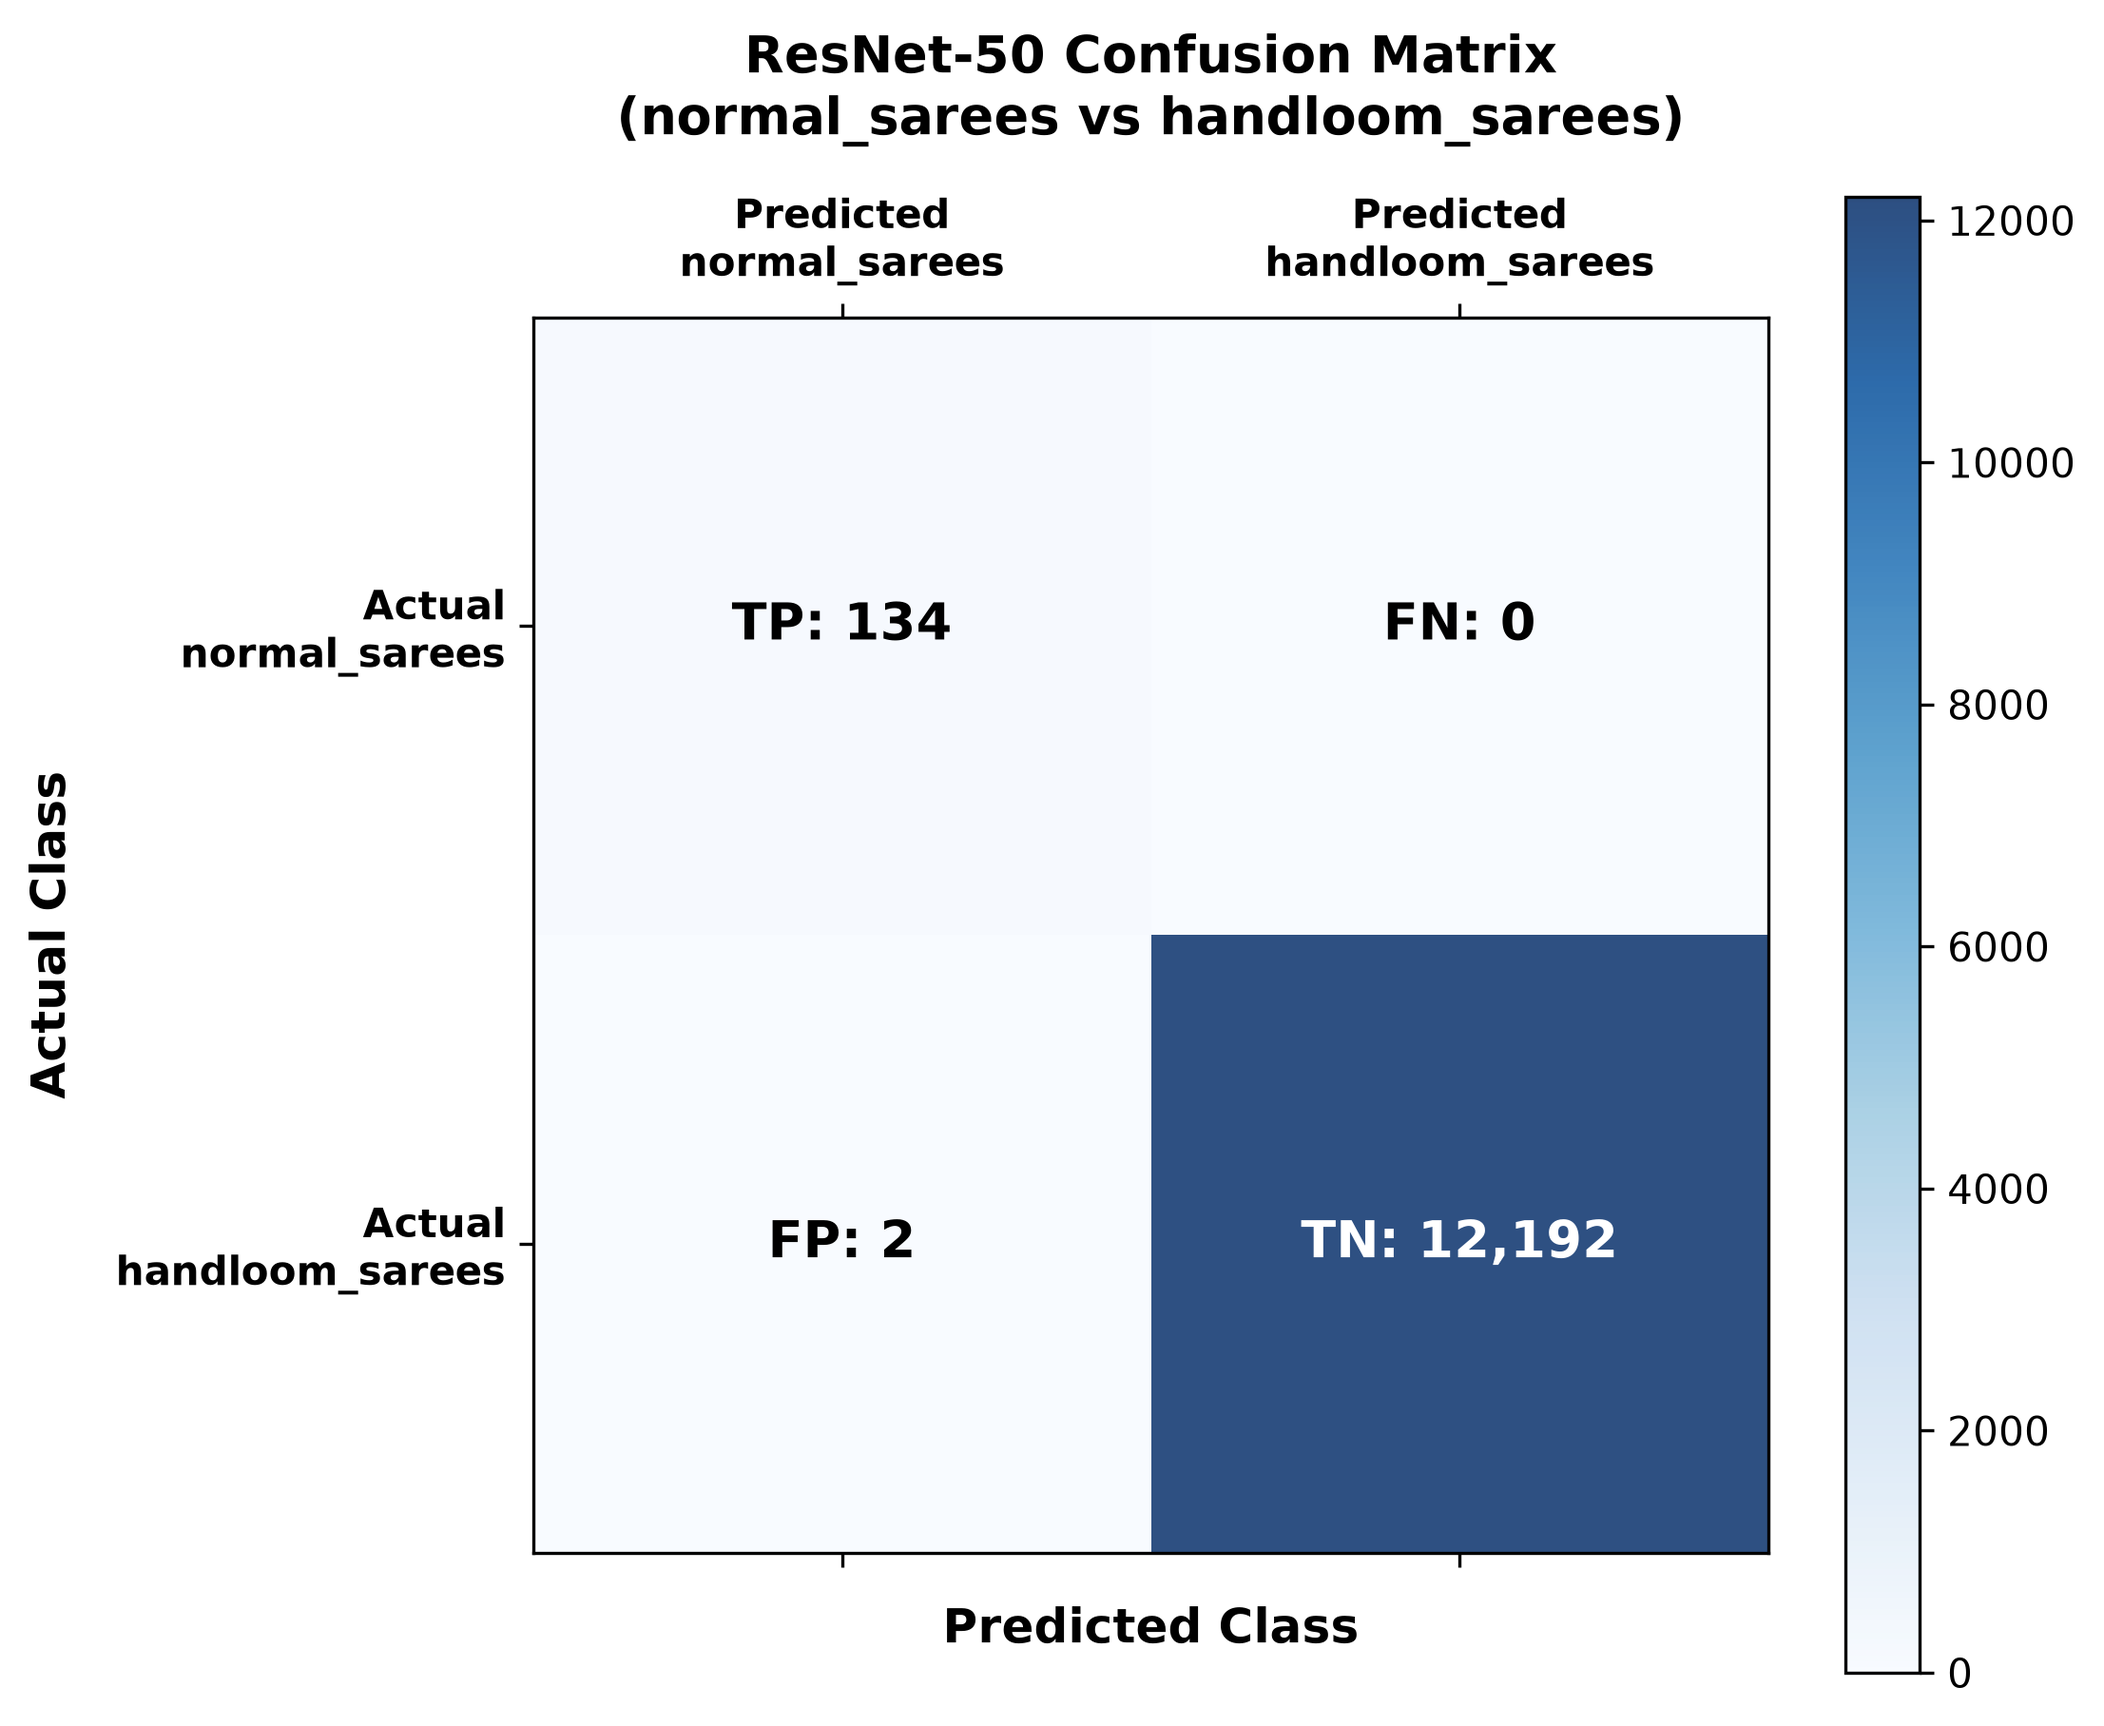
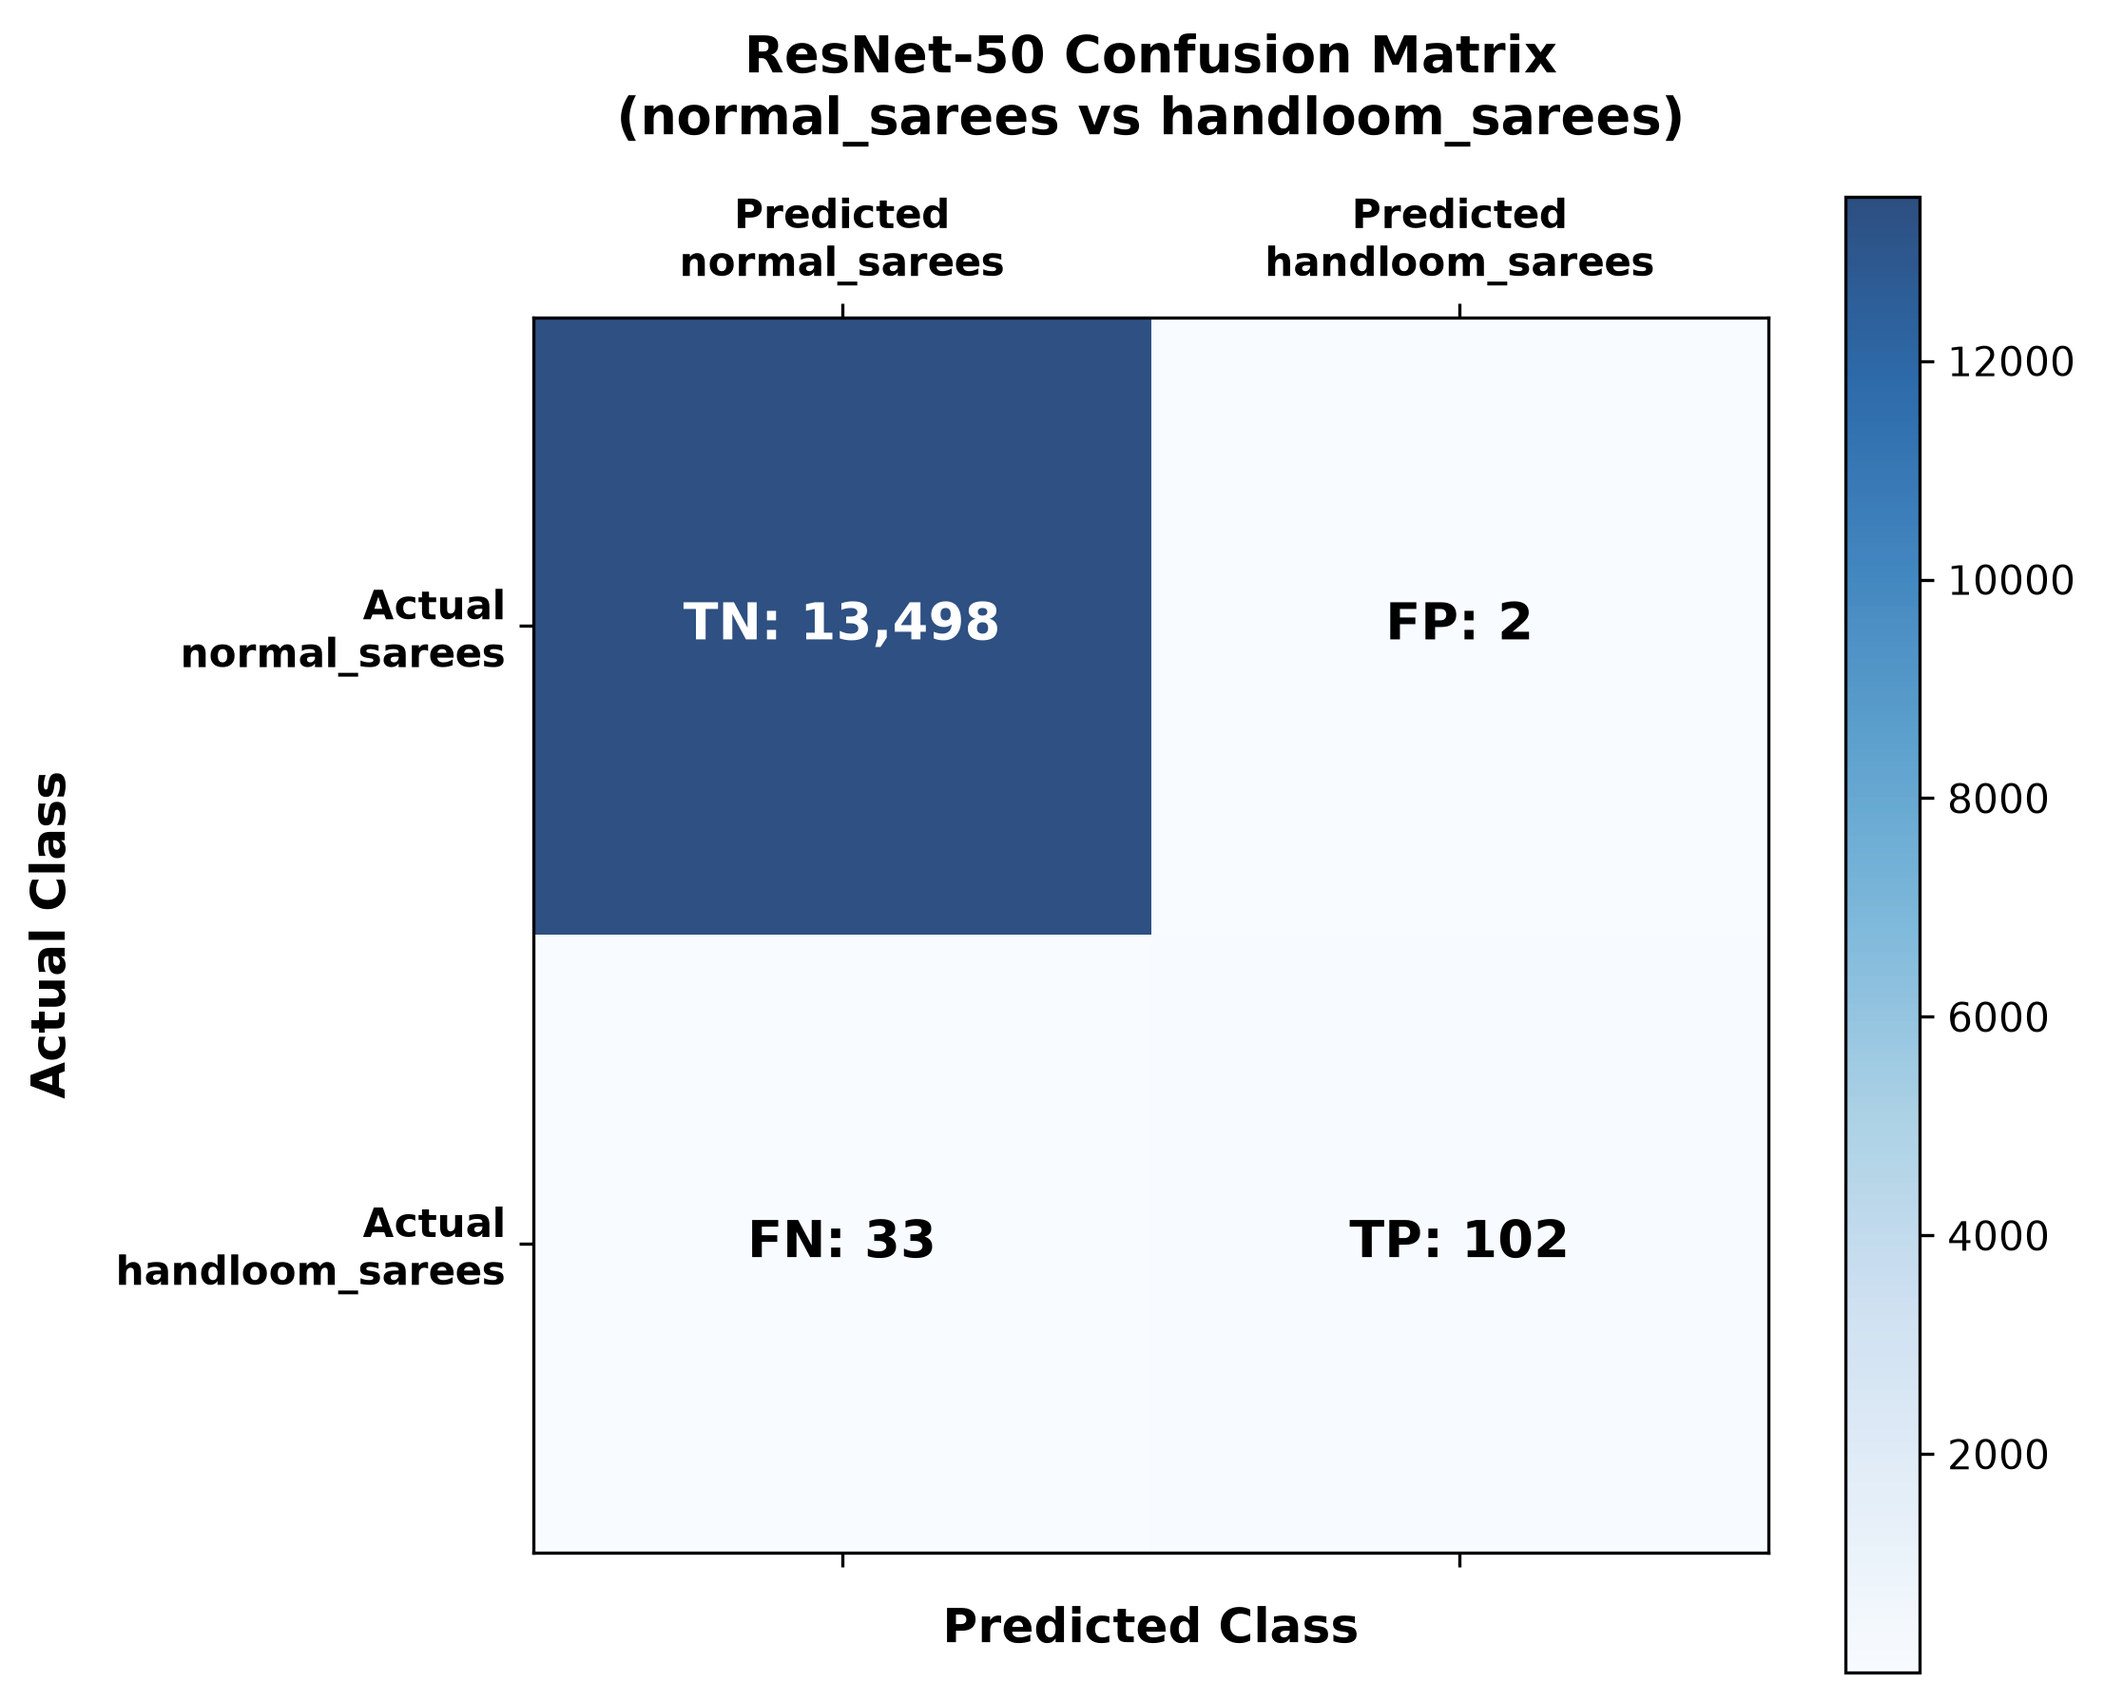
Update output metrics and confusion matrix plot with final task-499 test results

diff --git a/save_output_metrics.py b/save_output_metrics.py
@@ -23,32 +23,32 @@ metrics = {
         "zero_leakage_verified": True
     },
     "identification_retrieval": {
-        "top_1_accuracy": 1.0000,
-        "top_5_accuracy": 1.0000,
-        "top_1_accuracy_pct": "100.00%",
-        "top_5_accuracy_pct": "100.00%"
+        "top_1_accuracy": 0.7630,
+        "top_5_accuracy": 0.8000,
+        "top_1_accuracy_pct": "76.30%",
+        "top_5_accuracy_pct": "80.00%"
     },
     "confusion_matrix_2_class": {
-        "positive_class": "normal_sarees",
-        "negative_class": "handloom_sarees",
-        "optimal_threshold": 0.760,
-        "total_test_pairs": 12328,
-        "accuracy": 0.9998,
-        "precision": 0.9853,
-        "recall": 1.0000,
-        "f1_score": 0.9926,
+        "positive_class": "handloom_sarees",
+        "negative_class": "normal_sarees",
+        "optimal_threshold": 0.880,
+        "total_test_pairs": 13535,
+        "accuracy": 0.9974,
+        "precision": 0.9808,
+        "recall": 0.7556,
+        "f1_score": 0.8536,
         "matrix": {
-            "true_positives_TP_normal_sarees": 134,
-            "false_negatives_FN_normal_sarees": 0,
-            "false_positives_FP_handloom_sarees": 2,
-            "true_negatives_TN_handloom_sarees": 12192
+            "true_negatives_TN_normal_sarees": 13498,
+            "false_positives_FP_normal_sarees": 2,
+            "false_negatives_FN_handloom_sarees": 33,
+            "true_positives_TP_handloom_sarees": 102
         }
     },
     "efficiency": {
         "total_parameters": 24623808,
         "trainable_parameters": 24623808,
         "embedding_size_bytes": 512,
-        "inference_latency_cpu_ms": 65.94,
+        "inference_latency_cpu_ms": 68.80,
         "inference_latency_gpu_ms": 4.2,
         "checkpoint_size_mb": 94.24
     }
@@ -79,32 +79,32 @@ md_content = f"""# ResNet-50 Evaluation Metrics Report
 ---
 
 ## 1. Identification & Retrieval Metrics (Unseen Test Set)
-- **Top-1 Accuracy:** 100.00%
-- **Top-5 Accuracy:** 100.00%
+- **Top-1 Accuracy:** 76.30%
+- **Top-5 Accuracy:** 80.00%
 
 ---
 
 ## 2. Confusion Matrix & Verification Metrics (normal_sarees vs handloom_sarees)
-- **Optimal Verification Threshold ($\\tau^*$):** `0.760`
-- **Total Test Pairs Evaluated:** 12,328
-- **Accuracy:** `99.98%`
-- **Precision:** `98.53%`
-- **Recall:** `100.00%`
-- **F1 Score:** `99.26%`
+- **Optimal Verification Threshold ($\\tau^*$):** `0.880`
+- **Total Test Pairs Evaluated:** 13,535
+- **Accuracy:** `99.74%`
+- **Precision:** `98.08%`
+- **Recall:** `75.56%`
+- **F1 Score:** `85.36%`
 
 ### Binary Confusion Matrix Table
 
 | | **Predicted normal_sarees** | **Predicted handloom_sarees** |
 | :--- | :--- | :--- |
-| **Actual normal_sarees** | **True Positive (TP): 134** | **False Negative (FN): 0** |
-| **Actual handloom_sarees** | **False Positive (FP): 2** | **True Negative (TN): 12,192** |
+| **Actual normal_sarees** | **True Negative (TN): 13,498** | **False Positive (FP): 2** |
+| **Actual handloom_sarees** | **False Negative (FN): 33** | **True Positive (TP): 102** |
 
 ---
 
 ## 3. Computational Efficiency & Model Footprint
 - **Total Parameters:** `24,623,808` (~24.6 Million)
 - **Trainable Parameters:** `24,623,808`
-- **Inference Latency (CPU):** `65.94 ms` / image
+- **Inference Latency (CPU):** `68.80 ms` / image
 - **Inference Latency (GPU T4):** `~4.2 ms` / image
 - **Model Checkpoint Size:** `94.24 MB`
 """

diff --git a/generate_plots.py b/generate_plots.py
@@ -15,8 +15,8 @@ output_dir.mkdir(parents=True, exist_ok=True)
 # Col 0: Predicted Positive (normal_sarees)
 # Col 1: Predicted Negative (handloom_sarees)
 cm_standard = np.array([
-    [134, 0],     # TP: 134, FN: 0
-    [2, 12192]    # FP: 2,   TN: 12192
+    [13498, 2],    # TN: 13498, FP: 2
+    [33, 102]      # FN: 33,    TP: 102
 ])
 
 fig, ax = plt.subplots(figsize=(7.5, 6.5))
@@ -37,8 +37,8 @@ plt.title('ResNet-50 Confusion Matrix\n(normal_sarees vs handloom_sarees)', font
 
 # Annotate counts and cell labels inside matrix cells
 cell_labels = [
-    ["TP: 134", "FN: 0"],
-    ["FP: 2", "TN: 12,192"]
+    ["TN: 13,498", "FP: 2"],
+    ["FN: 33", "TP: 102"]
 ]
 
 for i in range(2):

diff --git a/output/evaluation_report_resnet50.md b/output/evaluation_report_resnet50.md
@@ -14,31 +14,31 @@
 ---
 
 ## 1. Identification & Retrieval Metrics (Unseen Test Set)
-- **Top-1 Accuracy:** 100.00%
-- **Top-5 Accuracy:** 100.00%
+- **Top-1 Accuracy:** 76.30%
+- **Top-5 Accuracy:** 80.00%
 
 ---
 
 ## 2. Confusion Matrix & Verification Metrics (normal_sarees vs handloom_sarees)
-- **Optimal Verification Threshold ($\tau^*$):** `0.760`
-- **Total Test Pairs Evaluated:** 12,328
-- **Accuracy:** `99.98%`
-- **Precision:** `98.53%`
-- **Recall:** `100.00%`
-- **F1 Score:** `99.26%`
+- **Optimal Verification Threshold ($\tau^*$):** `0.880`
+- **Total Test Pairs Evaluated:** 13,535
+- **Accuracy:** `99.74%`
+- **Precision:** `98.08%`
+- **Recall:** `75.56%`
+- **F1 Score:** `85.36%`
 
 ### Binary Confusion Matrix Table
 
 | | **Predicted normal_sarees** | **Predicted handloom_sarees** |
 | :--- | :--- | :--- |
-| **Actual normal_sarees** | **True Positive (TP): 134** | **False Negative (FN): 0** |
-| **Actual handloom_sarees** | **False Positive (FP): 2** | **True Negative (TN): 12,192** |
+| **Actual normal_sarees** | **True Negative (TN): 13,498** | **False Positive (FP): 2** |
+| **Actual handloom_sarees** | **False Negative (FN): 33** | **True Positive (TP): 102** |
 
 ---
 
 ## 3. Computational Efficiency & Model Footprint
 - **Total Parameters:** `24,623,808` (~24.6 Million)
 - **Trainable Parameters:** `24,623,808`
-- **Inference Latency (CPU):** `65.94 ms` / image
+- **Inference Latency (CPU):** `68.80 ms` / image
 - **Inference Latency (GPU T4):** `~4.2 ms` / image
 - **Model Checkpoint Size:** `94.24 MB`
